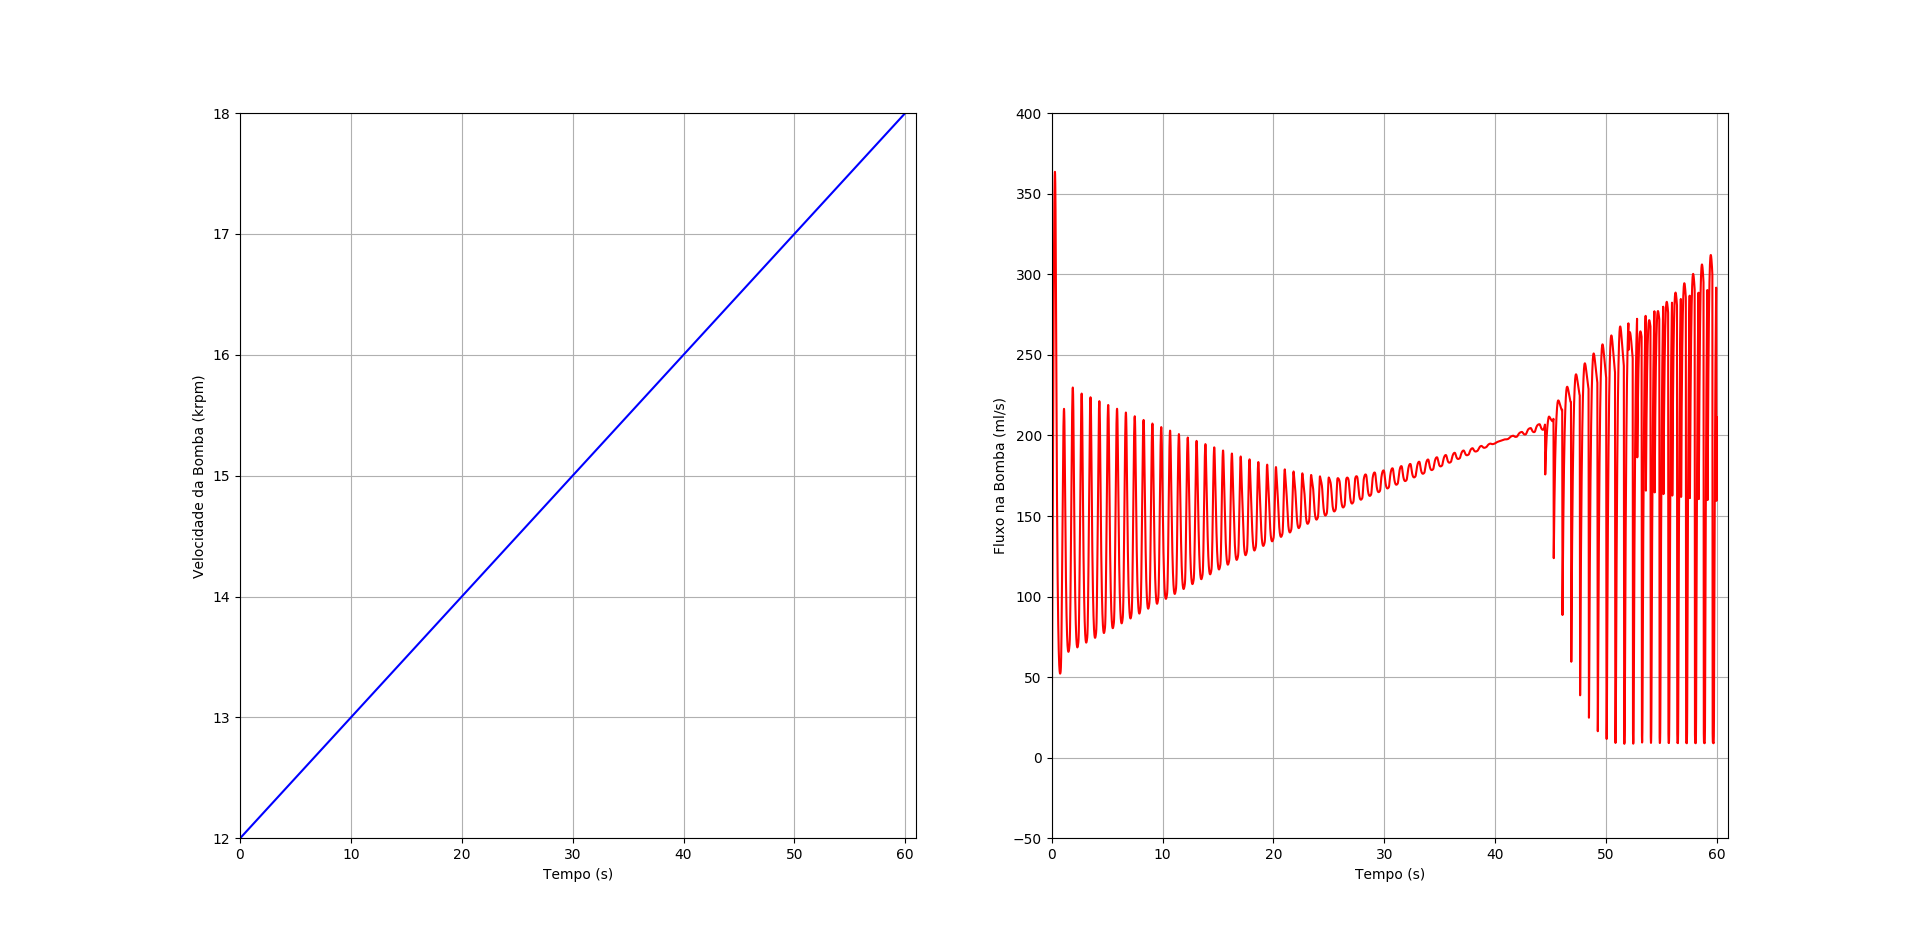
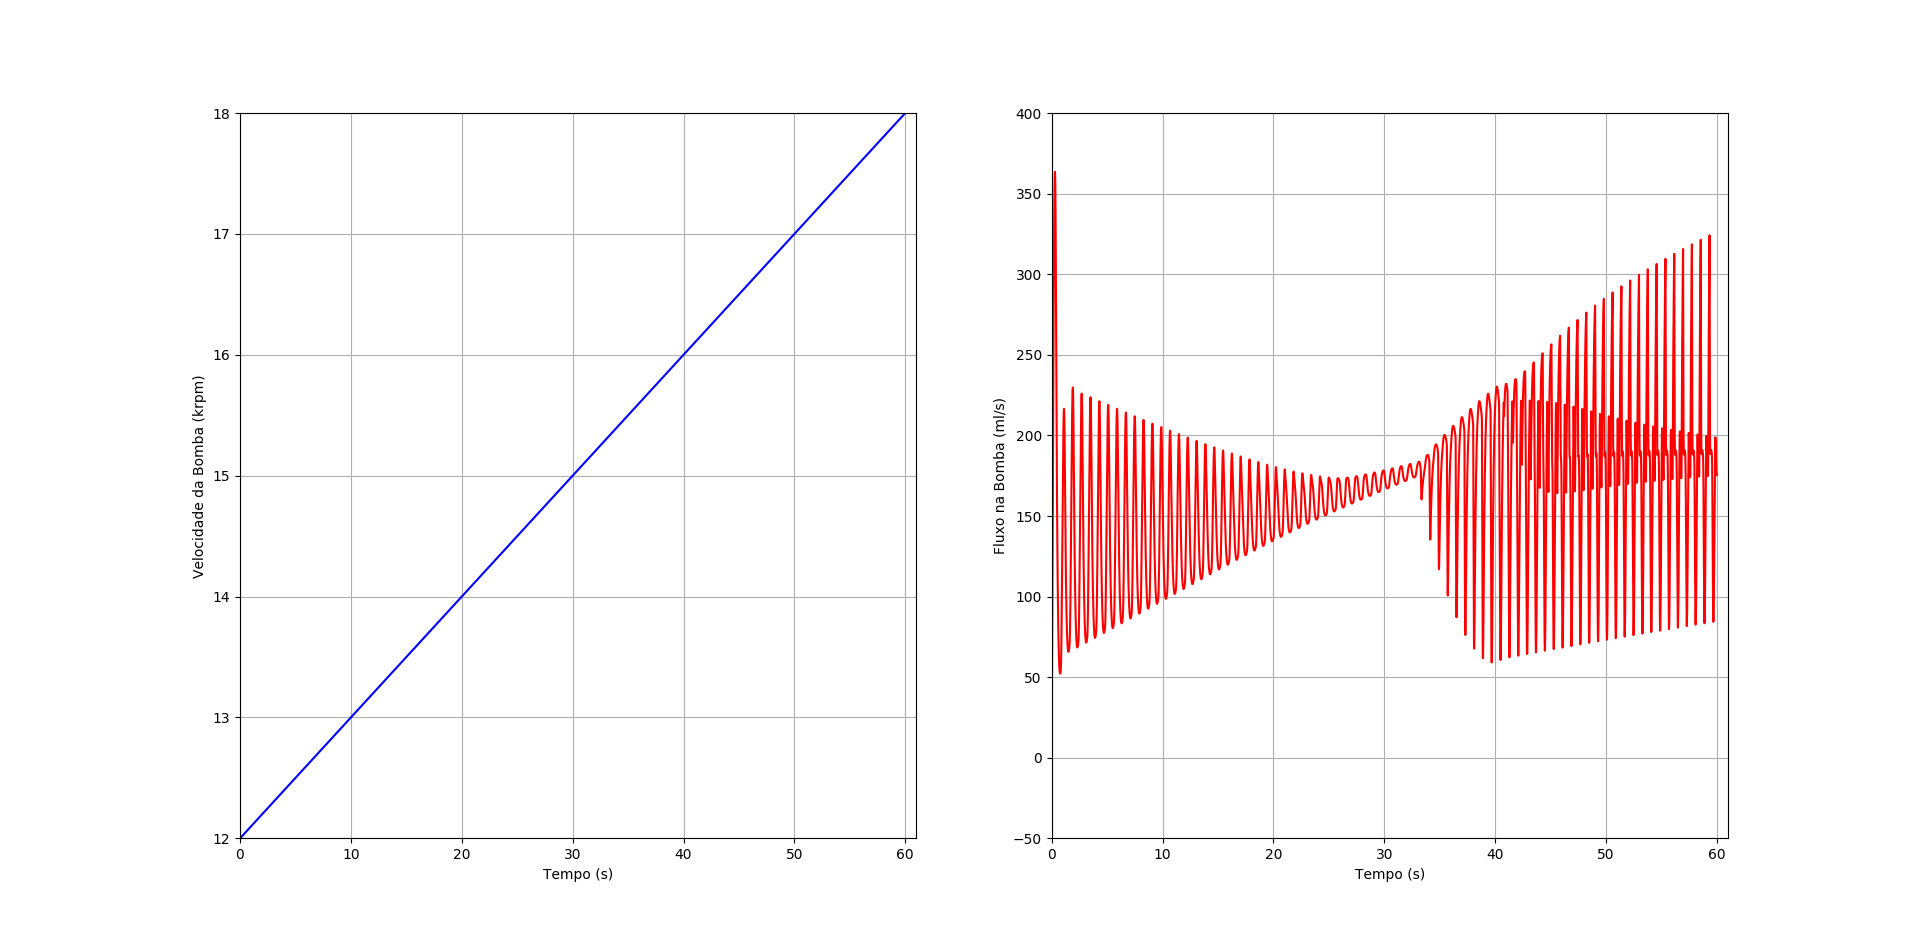
Correção no Projeto 3

Changed region(s): [[0.7188, 0.2463, 0.9062, 0.8004]]

diff --git a/Projeto 3/main.py b/Projeto 3/main.py
@@ -75,7 +75,7 @@ A = lambda t,y: [[-((Dm/Rm)+(Da/Ra))*E(t), Dm/Rm,  0 , Da/Ra,  0 , -1],
                [ 0 ,  0 , -Rc/Ls, 1/Ls, -1/Ls,  0 ],
                [Da*E(t)/(Ra*Ca),  0 , -1/Ca, -Da/(Ra*Ca),  0 , 1/Ca],
                [ 0 , 1/(Rs*Cs), 1/Cs,  0 , -1/(Rs*Cs),  0 ],
-               [E(t)/(Li + Lo + beta1),  0 ,  0 , -1/(Li + Lo + beta1),  0 , -(beta0 + Ri + Rk(Vve) + Ro)/(Li + Lo + beta1)]]
+               [E(t)/(Li + Lo + beta1),  0 ,  0 , -1/(Li + Lo + beta1),  0 , -(beta0 + Ri + Rk(Pve) + Ro)/(Li + Lo + beta1)]]
 
 
 f = lambda t,y: np.array([
